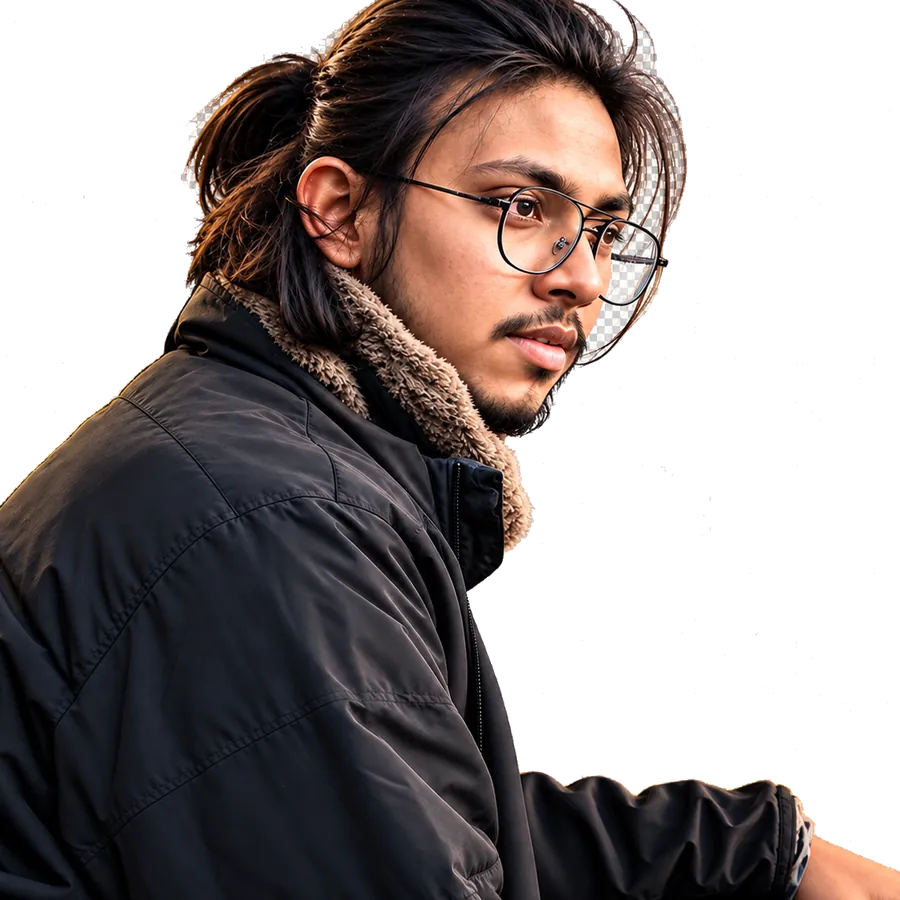
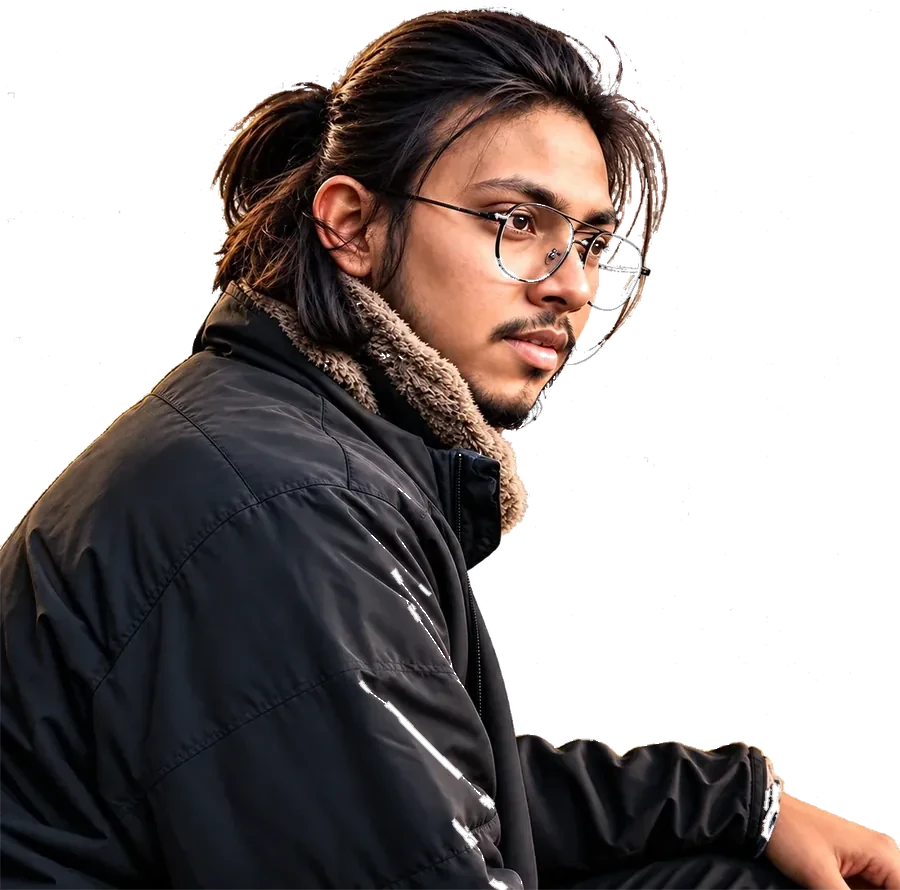
Freebuff: Fix BOTH portrait placements in my existing website. The...

Changed region(s): [[0.0, 0.0, 1.0, 1.0], [0.1556, 0.8798, 0.2178, 1.0], [0.1556, 0.7584, 0.1867, 0.8191]]

diff --git a/src/components/Interlude.tsx b/src/components/Interlude.tsx
@@ -22,12 +22,12 @@ export default function Interlude() {
     >
       <div aria-hidden="true" className="pointer-events-none absolute inset-0 -z-10">
         <div className="absolute inset-0 bg-[radial-gradient(120%_130%_at_15%_0%,rgba(101,13,25,0.85)_0%,rgba(52,8,14,0.65)_38%,rgba(8,8,8,0.98)_78%)]" />
-        <div className="pointer-events-none absolute -right-14 top-1/2 hidden w-[21rem] -translate-y-1/2 lg:block xl:w-[29rem]">
+        <div className="pointer-events-none absolute -right-14 top-24 hidden w-[21rem] lg:block xl:top-32 xl:w-[29rem]">
           <img
             src="/portrait-echo.webp"
             alt=""
             width={900}
-            height={900}
+            height={890}
             loading="lazy"
             decoding="async"
             className="portrait-echo w-full"

diff --git a/scripts/portrait-rebuild.py b/scripts/portrait-rebuild.py
@@ -1,0 +1,92 @@
+from PIL import Image
+import numpy as np
+from scipy import ndimage
+
+INK = np.array([8.0, 8.0, 8.0])
+
+
+def clean_alpha_inplace(rgb, alpha, min_size=6):
+    """Remove checker remnants: bright-neutral opaque px adjacent to transparent/black."""
+    total = 0
+    for _ in range(3):
+        lum = 0.2126*rgb[...,0]+0.7152*rgb[...,1]+0.0722*rgb[...,2]
+        sat = rgb.max(2)-rgb.min(2)
+        bright = (lum>150)&(sat<28)&(alpha>0.4)
+        dark = (lum<40)|(alpha<0.5)
+        dark_dil = ndimage.binary_dilation(dark, iterations=8)
+        lbl, n = ndimage.label(bright)
+        removed = np.zeros_like(bright)
+        if n:
+            sizes = ndimage.sum(bright, lbl, range(1, n+1))
+            for cid in range(1, n+1):
+                px = lbl == cid
+                size = int(sizes[cid-1])
+                adj = float((dark_dil & px).sum()) / size
+                if size >= min_size and adj >= 0.35:
+                    removed |= px
+        if removed.sum() < 20:
+            break
+        total += int(removed.sum())
+        alpha[removed] = 0.0
+    return total
+
+
+src = Image.open("public/portrait.webp").convert("RGBA")
+a = np.asarray(src).astype(np.float32)
+h, w = a.shape[:2]
+alpha = a[..., 3] / 255.0
+rgb = a[..., :3]
+lum = 0.2126*rgb[...,0]+0.7152*rgb[...,1]+0.0722*rgb[...,2]
+sat = rgb.max(2)-rgb.min(2)
+
+skin = (sat > 35) & (lum > 100) & (lum < 235) & (alpha > 0.5)
+lbl, n = ndimage.label(ndimage.binary_closing(skin, iterations=4))
+sizes = ndimage.sum(skin, lbl, range(1, n + 1))
+best = None
+for cid in np.argsort(sizes)[::-1]:
+    ys, xs = np.where(lbl == int(cid) + 1)
+    if ys.mean() < h * 0.55:
+        best = (ys, xs)
+        break
+face_cx = int(best[1].mean())
+head_cx = int(round((face_cx + 573) / 2))  # blend of warm-cluster centroid and width-profile centroid
+print("face warm centroid x:", face_cx, "-> head crop centre x:", head_cx)
+
+# --- header thumb: 620-side square from the crown, like the original key crop ---
+side = 620
+x0 = max(0, min(w - side, head_cx - side // 2))
+y0 = 0
+crop = src.crop((x0, y0, x0 + side, y0 + side)).resize((192, 192), Image.LANCZOS)
+crgb = np.asarray(crop).astype(np.float32)
+crgb = crgb[..., :3].copy()
+calpha = (np.asarray(crop)[..., 3] / 255.0).copy()
+clean_alpha_inplace(crgb, calpha)
+crop = Image.fromarray(np.clip(np.dstack([crgb, calpha*255]), 0, 255).astype(np.uint8), "RGBA")
+canvas = Image.new("RGBA", (192, 192), (0, 0, 0, 0))
+canvas.paste(crop, (0, 0))
+canvas.save("public/portrait-thumb.webp", "WEBP", quality=90, method=6)
+print("portrait-thumb.webp rebuilt, crop", (x0, y0, x0+side, y0+side))
+
+# --- About echo plate: whole cleaned cutout, head intact ---
+echo_src = Image.open("public/portrait.webp").convert("RGBA")
+ea = np.asarray(echo_src).astype(np.float32)
+ergb, ealpha = ea[...,:3].copy(), ea[...,3]/255.0
+clean_alpha_inplace(ergb, ealpha, min_size=10)
+echo = Image.fromarray(np.clip(np.dstack([ergb, ealpha*255]), 0, 255).astype(np.uint8), "RGBA")
+echo.thumbnail((900, 900), Image.LANCZOS)
+echo.save("public/portrait-echo.webp", "WEBP", quality=82, method=6)
+print("portrait-echo.webp rebuilt:", echo.size)
+
+def audit(path):
+    im = Image.open(path).convert("RGBA")
+    arr = np.asarray(im).astype(np.float32)
+    lm = 0.2126*arr[...,0]+0.7152*arr[...,1]+0.0722*arr[...,2]
+    st = arr.max(2)-arr.min(2)
+    al = arr[...,3]/255.0
+    br = (lm>150)&(st<28)&(al>0.4)
+    op = al>0.5
+    ys, xs2 = np.where(op)
+    print(f"{path}: {im.size} artifacts {int(br.sum())} px ({round(float(br.mean())*100,2)}%) subject y[{ys.min()}-{ys.max()}] x[{xs2.min()}-{xs2.max()}] centroidX {round(float(xs2.mean()))}")
+
+for p in ["public/portrait-thumb.webp", "public/portrait-echo.webp"]:
+    audit(p)

diff --git a/scripts/portrait-polish.py b/scripts/portrait-polish.py
@@ -1,0 +1,47 @@
+from PIL import Image
+import numpy as np
+from scipy import ndimage
+
+
+def polish(path, min_size=3):
+    im = Image.open(path).convert("RGBA")
+    a = np.asarray(im).astype(np.float32)
+    rgb, alpha = a[..., :3].copy(), a[..., 3] / 255.0
+    total = 0
+    for _ in range(4):
+        lum = 0.2126*rgb[...,0]+0.7152*rgb[...,1]+0.0722*rgb[...,2]
+        sat = rgb.max(2)-rgb.min(2)
+        bright = (lum>140)&(sat<28)&(alpha>0.4)
+        dark = (lum<40)|(alpha<0.5)
+        dark_dil = ndimage.binary_dilation(dark, iterations=6)
+        lbl, n = ndimage.label(bright)
+        removed = np.zeros_like(bright)
+        if n:
+            sizes = ndimage.sum(bright, lbl, range(1, n+1))
+            for cid in range(1, n+1):
+                px = lbl == cid
+                size = int(sizes[cid-1])
+                adj = float((dark_dil & px).sum()) / size
+                if size >= min_size and adj >= 0.30:
+                    removed |= px
+        if removed.sum() < 5:
+            break
+        total += int(removed.sum())
+        alpha[removed] = 0.0
+    out = Image.fromarray(np.clip(np.dstack([rgb, alpha*255]), 0, 255).astype(np.uint8), "RGBA")
+    if path.endswith(".webp"):
+        out.save(path, "WEBP", quality=88, method=6)
+    else:
+        out.save(path, optimize=True)
+    print(f"{path}: polished {total} px")
+    # re-audit
+    arr = np.asarray(Image.open(path).convert("RGBA")).astype(np.float32)
+    lm = 0.2126*arr[...,0]+0.7152*arr[...,1]+0.0722*arr[...,2]
+    st = arr.max(2)-arr.min(2)
+    al = arr[...,3]/255.0
+    br = (lm>150)&(st<28)&(al>0.4)
+    print(f"   remaining artifacts: {int(br.sum())} px ({round(float(br.mean())*100,3)}%)")
+
+
+polish("public/portrait-thumb.webp")
+polish("public/portrait-echo.webp")

diff --git a/scripts/portrait-audit2.py b/scripts/portrait-audit2.py
@@ -1,0 +1,31 @@
+from PIL import Image
+import numpy as np
+from scipy import ndimage
+
+def audit(path):
+    im = Image.open(path).convert("RGBA")
+    arr = np.asarray(im).astype(np.float32)
+    rgb, alpha = arr[..., :3], arr[..., 3] / 255.0
+    h, w = alpha.shape
+    lum = 0.2126*rgb[...,0]+0.7152*rgb[...,1]+0.0722*rgb[...,2]
+    sat = rgb.max(2)-rgb.min(2)
+    bright = (lum>150)&(sat<28)&(alpha>0.4)
+    op = alpha > 0.5
+    ys, xs = np.where(op)
+    er = ndimage.binary_erosion(op, iterations=1)
+    edge = int((op & ~er).sum())
+    # composite on site background #080808 for edge blend check
+    flat = np.zeros_like(rgb); flat[...,0]=8; flat[...,1]=8; flat[...,2]=8
+    comp = rgb*alpha[...,None] + flat*(1-alpha[...,None])
+    cl = 0.2126*comp[...,0]+0.7152*comp[...,1]+0.0722*comp[...,2]
+    cs = comp.max(2)-comp.min(2)
+    stray = (cl>140)&(cs<20)&(alpha<0.6)
+    print(f"{path}: {w}x{h}")
+    print(f"   artifacts: {int(bright.sum())} px ({round(float(bright.mean())*100,2)}%) | stray bright-on-black after compositing: {int(stray.sum())} px")
+    print(f"   subject y[{ys.min()}-{ys.max()}] x[{xs.min()}-{xs.max()}] centroid ({round(float(xs.mean()))},{round(float(ys.mean()))}) edge px {edge} ({round(edge/max(int(op.sum()),1)*100,1)}%)")
+    top_row = int((op[0]).sum())
+    print(f"   top-row opaque px: {top_row} (cropped at crown if > 40)")
+
+for p in [".backup-portrait-thumb.webp", "public/portrait-thumb.webp",
+          ".backup-portrait-echo.webp", "public/portrait-echo.webp"]:
+    audit(p)
